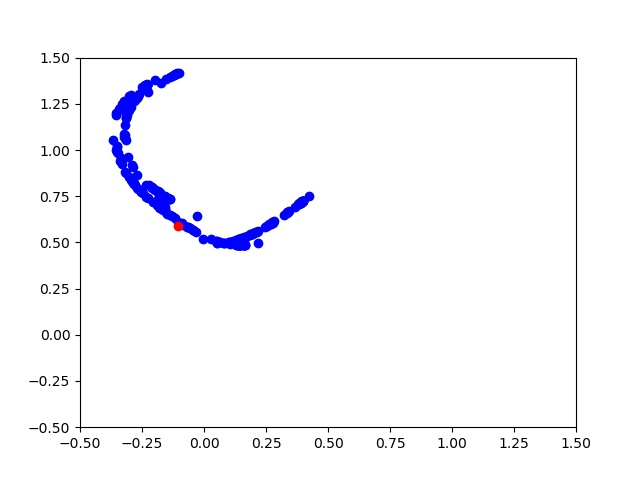
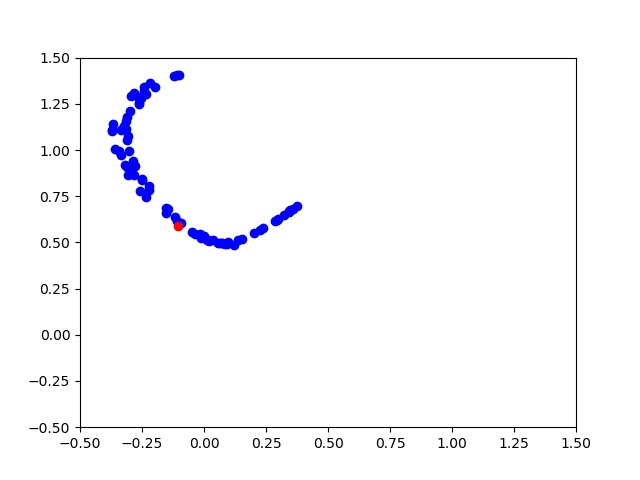
fix some constants

Changed region(s): [[0.1562, 0.125, 0.5, 0.5312]]

diff --git a/homotopy/algorithm.py b/homotopy/algorithm.py
@@ -81,7 +81,7 @@ def plot_steps_chart(xs, x_star):
     Y = [f2]
     plt.plot(X, Y, 'ro')
     plt.axis([-0.5, 1.5, -0.5, 1.5])
-    plt.savefig('results/candidate_set.jpg')
+    plt.savefig('homotopy/results/candidate_set.jpg')
 
 
 def newton_system(f, Df, Q, eta_0, epsilon, x_star, alpha_star, _grad_f_func, _grad2_f_func, n, m, plot=False, error=1e-1, max_iter=1000):  # TODO fix epsilon and max_iter
@@ -110,7 +110,7 @@ def newton_system(f, Df, Q, eta_0, epsilon, x_star, alpha_star, _grad_f_func, _g
     return eta_n, iteration_counter
 
 
-def run_homotopy(x, alpha, _f_func, _grad_f_func, _grad2_f_func, n, m, k):
+def run_homotopy(x, alpha, _f_func, _grad_f_func, _grad2_f_func, n, m, k, plot=False):
     # Step 2
     F_jacobian = F_jacobian_func(x, alpha, _grad_f_func, _grad2_f_func)
 
@@ -133,7 +133,7 @@ def run_homotopy(x, alpha, _f_func, _grad_f_func, _grad2_f_func, n, m, k):
 
     # Step 6
     I_size = k-1
-    c = 1.0  # TODO check this
+    c = 0.02  # TODO check this
     epsilons = []
     for i in range(I_size):
         e_i = np.zeros(I_size)
@@ -146,7 +146,6 @@ def run_homotopy(x, alpha, _f_func, _grad_f_func, _grad2_f_func, n, m, k):
     # Step 7
     result_points = []
     for epsilon_i in epsilons:
-        # epsilon_i = np.array([0.06])
 
         # Step 10
         check_phi_alpha = False
@@ -157,7 +156,7 @@ def run_homotopy(x, alpha, _f_func, _grad_f_func, _grad2_f_func, n, m, k):
 
                 # Step 8
                 eta_i = np.zeros(n+m+1)  # TODO check starting point
-                newton_eta, newton_iter = newton_system(F_tilda_func, grad_F_tilda_func, Q, eta_i, epsilon_i, x, alpha, _grad_f_func, _grad2_f_func, n, m)
+                newton_eta, newton_iter = newton_system(F_tilda_func, grad_F_tilda_func, Q, eta_i, epsilon_i, x, alpha, _grad_f_func, _grad2_f_func, n, m, plot=plot)
                 epsilon_i /= 2
 
             phi_alpha = phi_func(Q, epsilon_i, newton_eta, x, alpha)[n:]
@@ -171,7 +170,10 @@ def run_homotopy(x, alpha, _f_func, _grad_f_func, _grad2_f_func, n, m, k):
 def run(_f_func=f_func, _grad_f_func=grad_f_func, _grad2_f_func=grad2_f_func, n=N, m=M, k=K):
     # Step 1
     alpha = get_uniform_positive_random_unit_vector(k)
-    x = minimize_g_alpha(alpha, _f_func, n)
+    # alpha = np.array([0.5, 0.5])
+    x = minimize_g_alpha(alpha, _f_func, n)  # 1st point
+    # x = np.array([0.75, 0.6])  # 2nd point
+    # x = np.array([0.5, 0.5])  # 3rd point
     # print('F(x, alpha) should be 0\n', F_func(x, alpha, _grad_f_func))
 
-    return run_homotopy(x, alpha, _f_func, _grad_f_func, _grad2_f_func, n, m, k)
+    return run_homotopy(x, alpha, _f_func, _grad_f_func, _grad2_f_func, n, m, k, plot=False)
